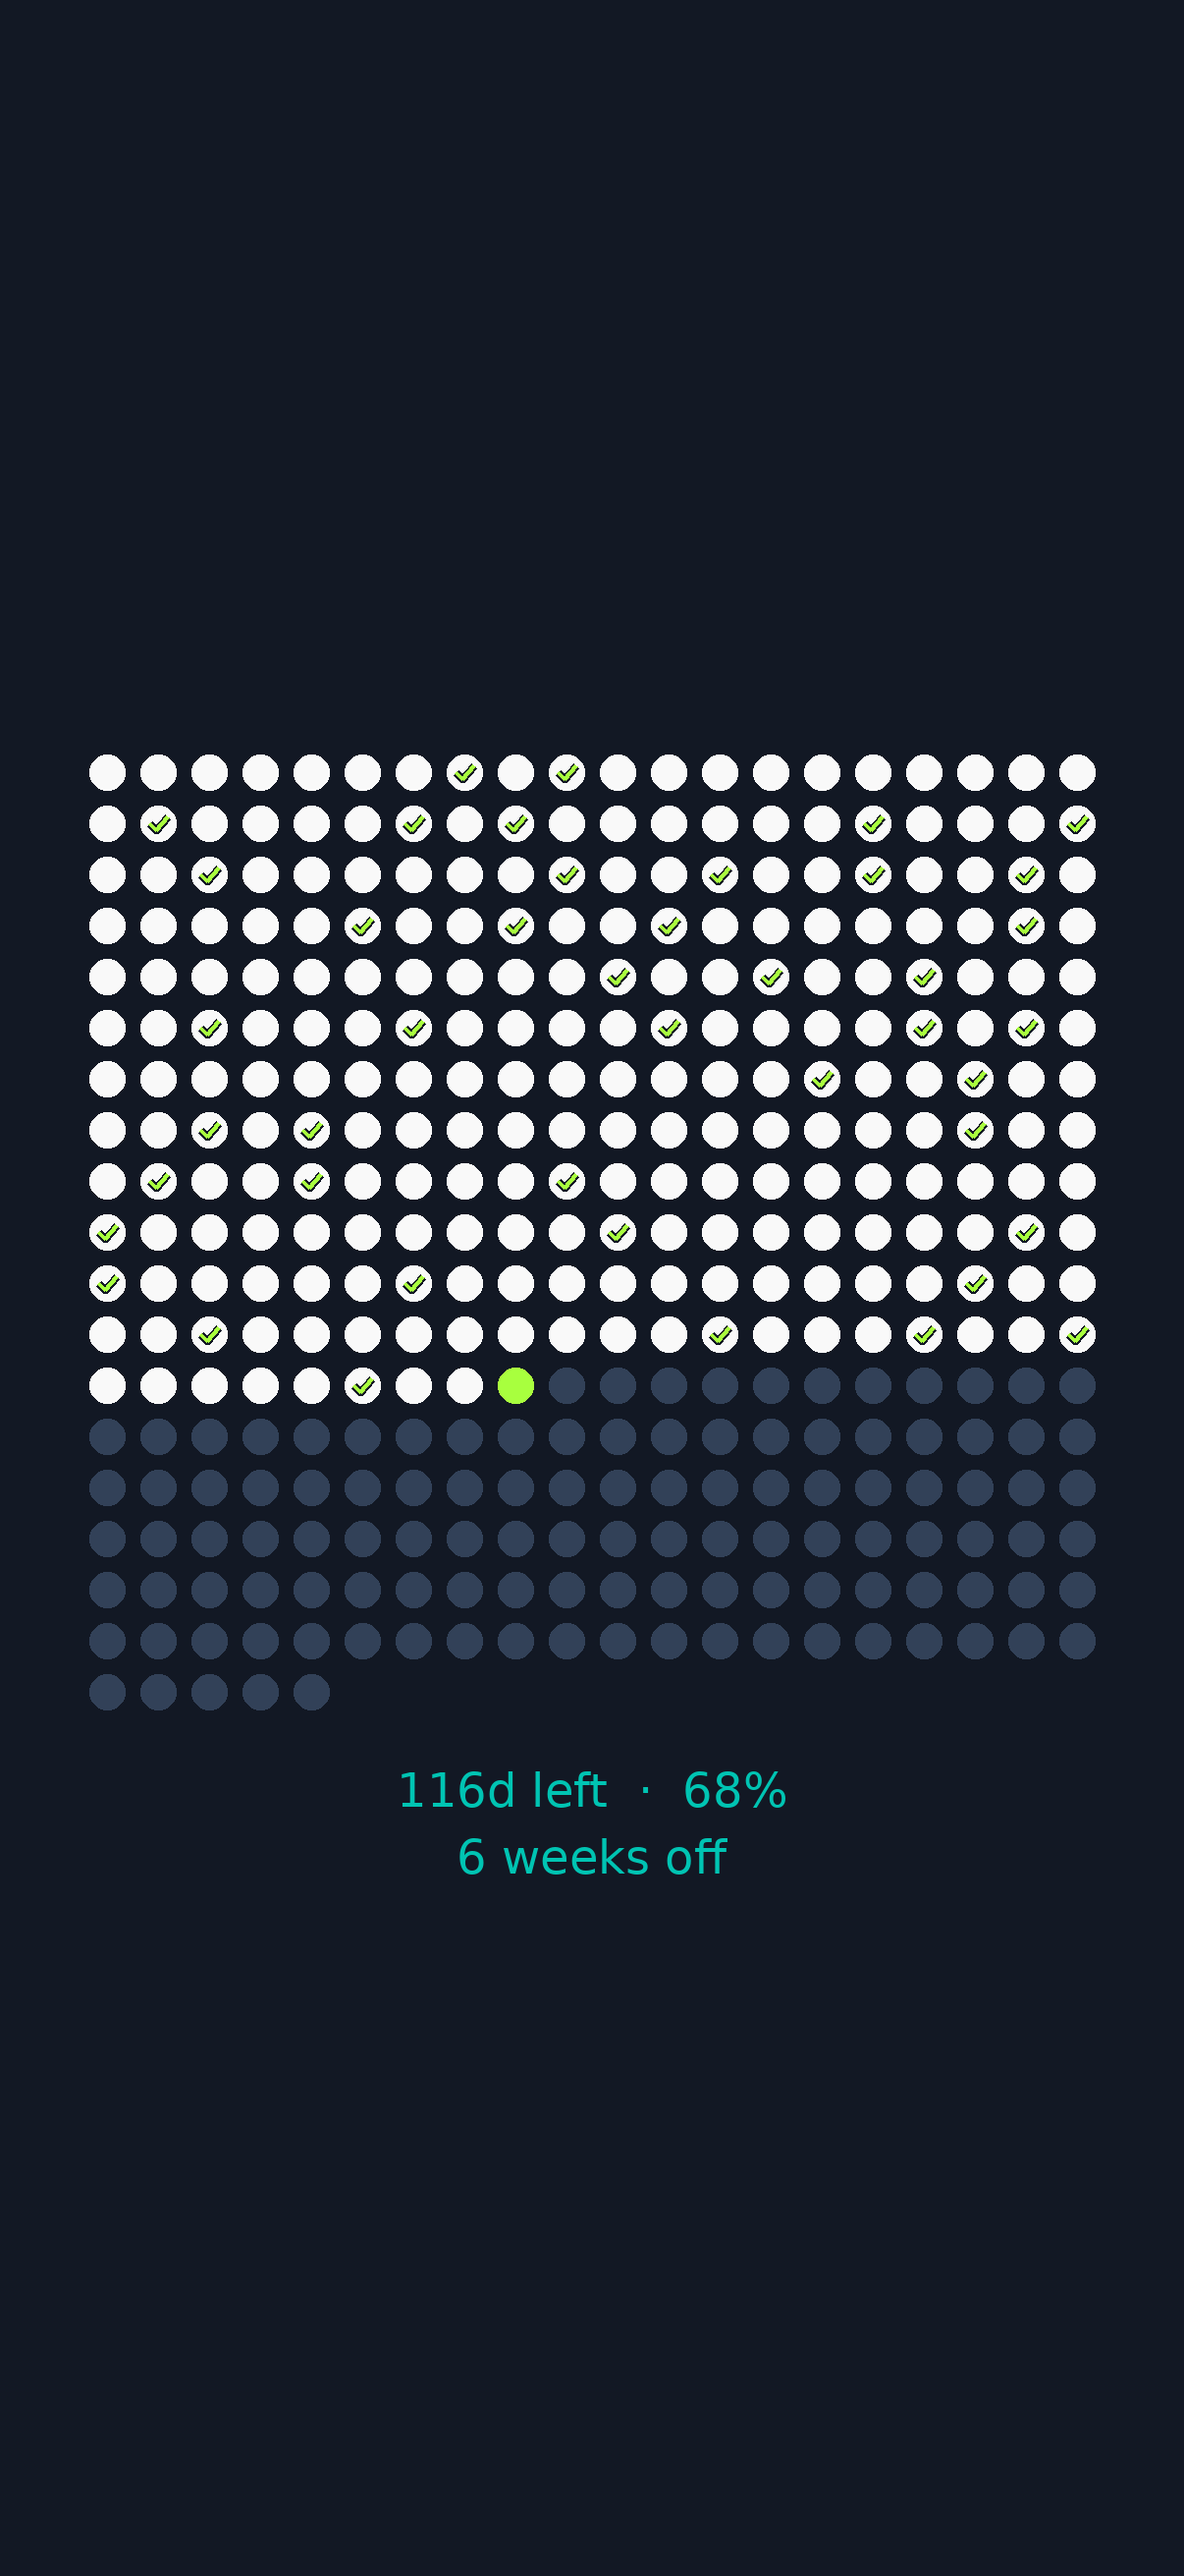
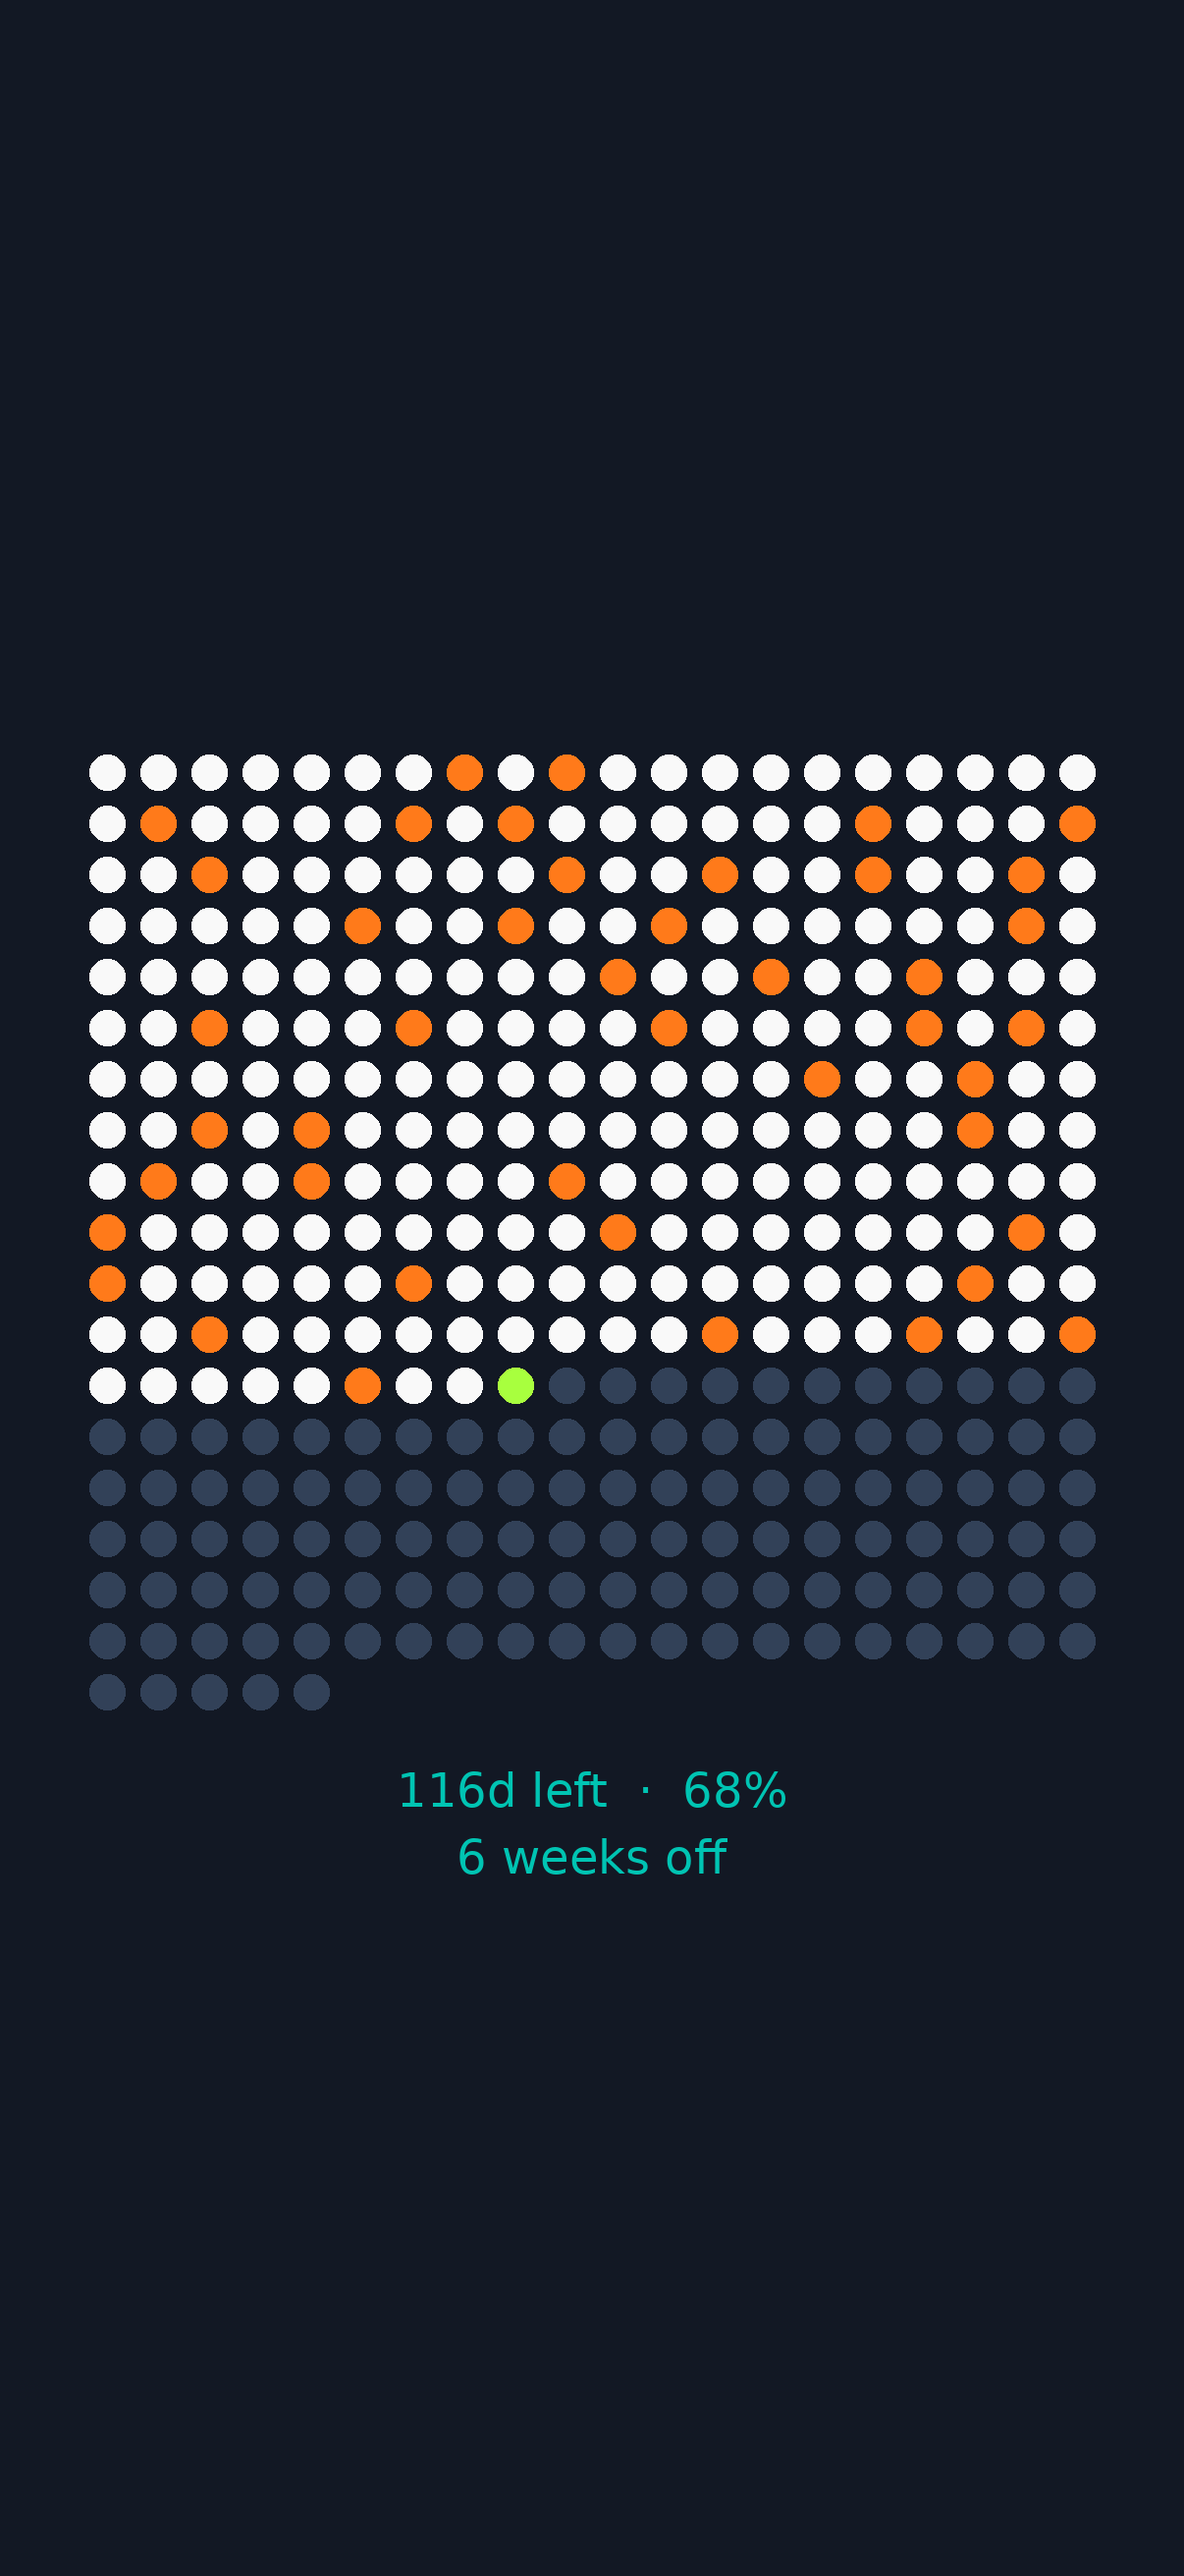
Mark workout days with orange dots instead of green ticks
Workout days now fill the day's dot with a vivid orange (#FF7A1A) rather
than overlaying a lime check mark. At 18px radius on the yearly grid a tick
was too small to read; a solid fill is legible at both dot sizes.

The orange replaces the day's state colour, so a workout on today would
otherwise hide the "you are here" marker. Those days get a lime ring around
the orange dot to keep both signals.

Also removes the now-unused tick helper and corrects two stale README lines,
including the workout-rate description left over from the weeks-off change.

Claude-Session: https://claude.ai/code/session_01TCBdb7fw5HZcemW4gDLYy4

diff --git a/generate_home.py b/generate_home.py
@@ -4,7 +4,7 @@ import math
 import os
 from PIL import Image, ImageDraw, ImageFont
 
-from workout_data import draw_workout_tick, load_workout_dates, workout_summary
+from workout_data import load_workout_dates, workout_summary
 
 # Canvas (iPhone 16/17 Pro native resolution)
 CANVAS_WIDTH = 1206
@@ -16,12 +16,13 @@ DOT_PAST = (249, 249, 249)
 DOT_TODAY = (168, 255, 62)
 DOT_FUTURE = (50, 65, 88)
 TEXT_COLOR = (0, 196, 179)
-WORKOUT_TICK = DOT_TODAY
+DOT_WORKOUT = (255, 122, 26)  # Vivid Orange - workout days
 
 # Grid geometry
 GRID_COLS = 8
 DOT_RADIUS = 32
 DOT_SPACING = 110
+TODAY_RING_WIDTH = 8
 
 # Typography and safe zones
 FONT_SIZE_STATS = 60
@@ -81,21 +82,21 @@ def generate_image(output_path=OUTPUT_PATH, today=None, workout_dates=None):
         cx = origin_x + col * DOT_SPACING
         cy = origin_y + row * DOT_SPACING
 
-        if i < day_of_month - 1:
+        is_workout = date in month_workouts
+        if is_workout:
+            color = DOT_WORKOUT
+        elif i < day_of_month - 1:
             color = DOT_PAST
         elif i == day_of_month - 1:
             color = DOT_TODAY
         else:
             color = DOT_FUTURE
 
-        draw.ellipse(
-            [cx - DOT_RADIUS, cy - DOT_RADIUS, cx + DOT_RADIUS, cy + DOT_RADIUS],
-            fill=color,
-        )
-        if date in month_workouts:
-            draw_workout_tick(
-                draw, cx, cy, DOT_RADIUS, WORKOUT_TICK, BG_COLOR
-            )
+        bounds = [cx - DOT_RADIUS, cy - DOT_RADIUS, cx + DOT_RADIUS, cy + DOT_RADIUS]
+        draw.ellipse(bounds, fill=color)
+        # Today must still read as "you are here" on days that were also workouts.
+        if i == day_of_month - 1 and is_workout:
+            draw.ellipse(bounds, outline=DOT_TODAY, width=TODAY_RING_WIDTH)
 
     stats_label = f"{days_remaining}d left  ·  {pct}%"
     font_stats = load_font(FONT_SIZE_STATS)

diff --git a/generate_background.py b/generate_background.py
@@ -3,7 +3,7 @@ import math
 import os
 from PIL import Image, ImageDraw, ImageFont
 
-from workout_data import draw_workout_tick, load_workout_dates, workout_summary
+from workout_data import load_workout_dates, workout_summary
 
 # Canvas (iPhone 16/17 Pro native resolution)
 CANVAS_WIDTH = 1206
@@ -15,12 +15,13 @@ DOT_PAST = (249, 249, 249)
 DOT_TODAY = (168, 255, 62)
 DOT_FUTURE = (50, 65, 88)
 TEXT_COLOR = (0, 196, 179)
-WORKOUT_TICK = DOT_TODAY
+DOT_WORKOUT = (255, 122, 26)  # Vivid Orange - workout days
 
 # Grid geometry
 GRID_COLS = 20
 DOT_RADIUS = 18
 DOT_SPACING = 52
+TODAY_RING_WIDTH = 5
 
 # Text
 FONT_SIZE = 48
@@ -79,21 +80,21 @@ def generate_image(output_path=OUTPUT_PATH, today=None, workout_dates=None):
         cx = origin_x + col * DOT_SPACING
         cy = origin_y + row * DOT_SPACING
 
-        if i < day_of_year:
+        is_workout = date in year_workouts
+        if is_workout:
+            color = DOT_WORKOUT
+        elif i < day_of_year:
             color = DOT_PAST
         elif i == day_of_year:
             color = DOT_TODAY
         else:
             color = DOT_FUTURE
 
-        draw.ellipse(
-            [cx - DOT_RADIUS, cy - DOT_RADIUS, cx + DOT_RADIUS, cy + DOT_RADIUS],
-            fill=color,
-        )
-        if date in year_workouts:
-            draw_workout_tick(
-                draw, cx, cy, DOT_RADIUS, WORKOUT_TICK, BG_COLOR
-            )
+        bounds = [cx - DOT_RADIUS, cy - DOT_RADIUS, cx + DOT_RADIUS, cy + DOT_RADIUS]
+        draw.ellipse(bounds, fill=color)
+        # Today must still read as "you are here" on days that were also workouts.
+        if i == day_of_year and is_workout:
+            draw.ellipse(bounds, outline=DOT_TODAY, width=TODAY_RING_WIDTH)
 
     week_word = "week" if weeks_off == 1 else "weeks"
     lines = [

diff --git a/workout_data.py b/workout_data.py
@@ -61,15 +61,3 @@ def workout_summary(today, workout_dates):
         if date.month == today.month
     }
     return year_dates, month_dates, count_weeks_off(today, workout_dates)
-
-
-def draw_workout_tick(draw, cx, cy, radius, color, outline_color):
-    """Draw a compact, legible check mark centred on a progress dot."""
-    points = [
-        (cx - int(radius * 0.52), cy),
-        (cx - int(radius * 0.12), cy + int(radius * 0.42)),
-        (cx + int(radius * 0.60), cy - int(radius * 0.42)),
-    ]
-    width = max(3, radius // 4)
-    draw.line(points, fill=outline_color, width=width + 4, joint="curve")
-    draw.line(points, fill=color, width=width, joint="curve")

diff --git a/README.md b/README.md
@@ -5,8 +5,10 @@ Daily iPhone lock-screen and home-screen wallpapers generated by GitHub Actions.
 - `docs/background.png` shows every day of the current year.
 - `docs/home.png` shows every day of the current month.
 - White dots are elapsed days, lime is today, and dark dots are future days.
-- A lime check marks each date listed in `workout_dates.csv`.
-- The lock screen reports workout days as a percentage of elapsed days in the year.
+- An orange dot marks each date listed in `workout_dates.csv`. When today is also a
+  workout day the dot is orange with a lime ring, so today stays identifiable.
+- The lock screen reports how many completed Mon-Sun weeks this year contained no
+  workout at all. The week in progress is excluded, so the count only ever rises.
 
 ## Add a workout
 
